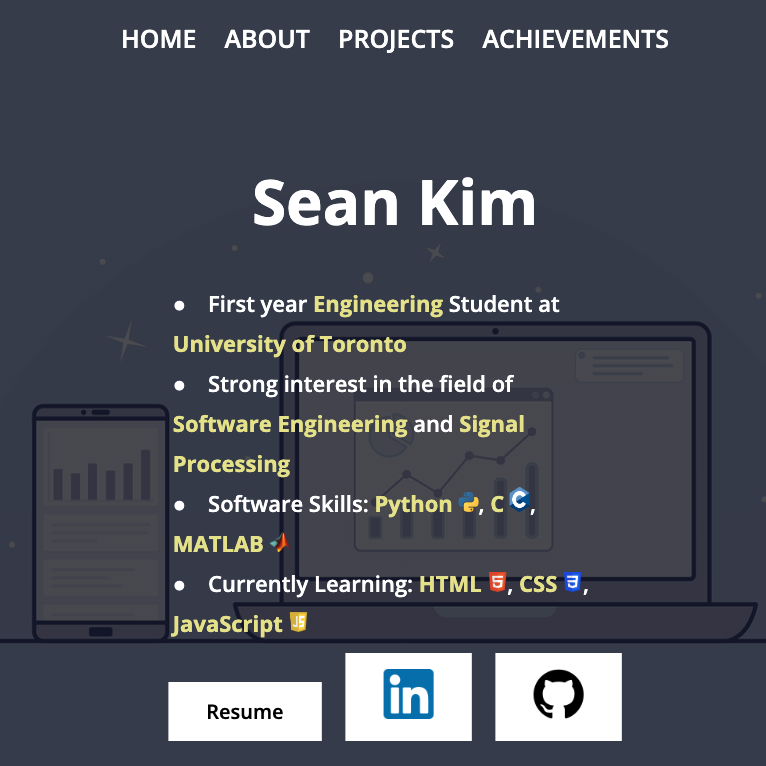
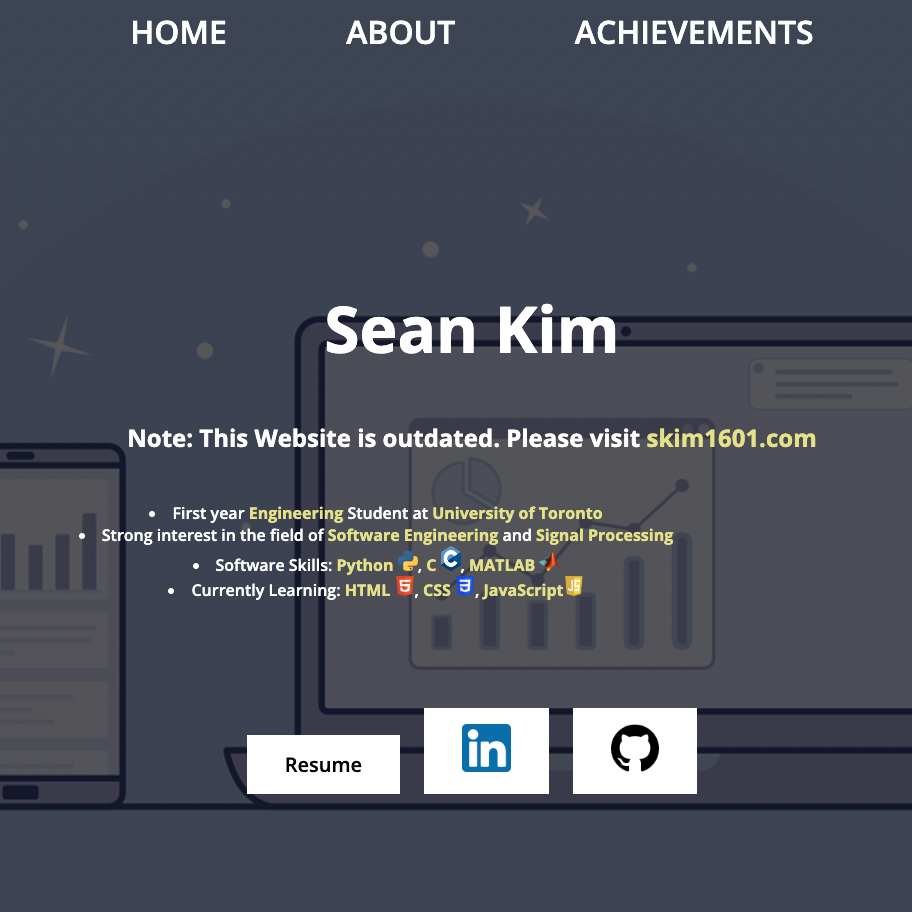
old portfolio website link change

diff --git a/src/components/pages/Projects/PortfolioOneDes.jsx b/src/components/pages/Projects/PortfolioOneDes.jsx
@@ -1,12 +1,11 @@
 import "./Style.css";
 import Project from "./ProjectSample";
-import { PortfolioOneFirst, PortfolioOneSecond, PortfolioOneThird, PortfolioOneFourth } from '../../../assets';
+import { PortfolioOneFirst, PortfolioOneSecond, PortfolioOneThird } from '../../../assets';
 
 const images = [
   PortfolioOneFirst, 
   PortfolioOneSecond, 
-  PortfolioOneThird, 
-  PortfolioOneFourth
+  PortfolioOneThird
 ];
 
 const PortfolioOneDes = () => { 
@@ -15,8 +14,8 @@ const PortfolioOneDes = () => {
         date: "Mar 2022",
         skills: "HTML5, CSS3",
         img: images,
-        link: "https://skim1601.github.io/",
-        github: "https://github.com/skim1601/skim1601.github.io"
+        link: "https://sean-kim-portfolio.netlify.app/",
+        github: "https://github.com/skim1601/sean-kim-old-website"
     }
 
     return (

diff --git a/src/assets/index.js b/src/assets/index.js
@@ -26,7 +26,6 @@ export const PortfolioTwoFive = require('./PortfolioTwoImages/Portfolio-two-imag
 export const PortfolioOneFirst = require('./PortfolioOneImages/Portfolio-one-image1.png');
 export const PortfolioOneSecond = require('./PortfolioOneImages/Portfolio-one-image2.png');
 export const PortfolioOneThird = require('./PortfolioOneImages/Portfolio-one-image3.png');
-export const PortfolioOneFourth = require('./PortfolioOneImages/Portfolio-one-image4.png');
 export const ReversiFirst = require('./ReversiImages/Reversi-image1.png');
 export const ReversiSecond = require('./ReversiImages/Reversi-image2.png');
 export const ReversiThird = require('./ReversiImages/Reversi-image3.png');
